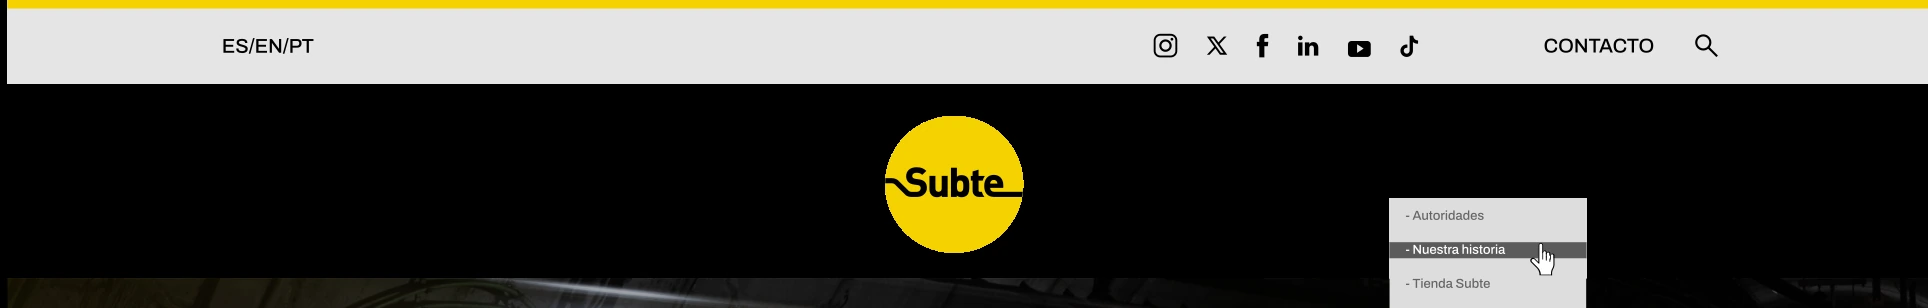
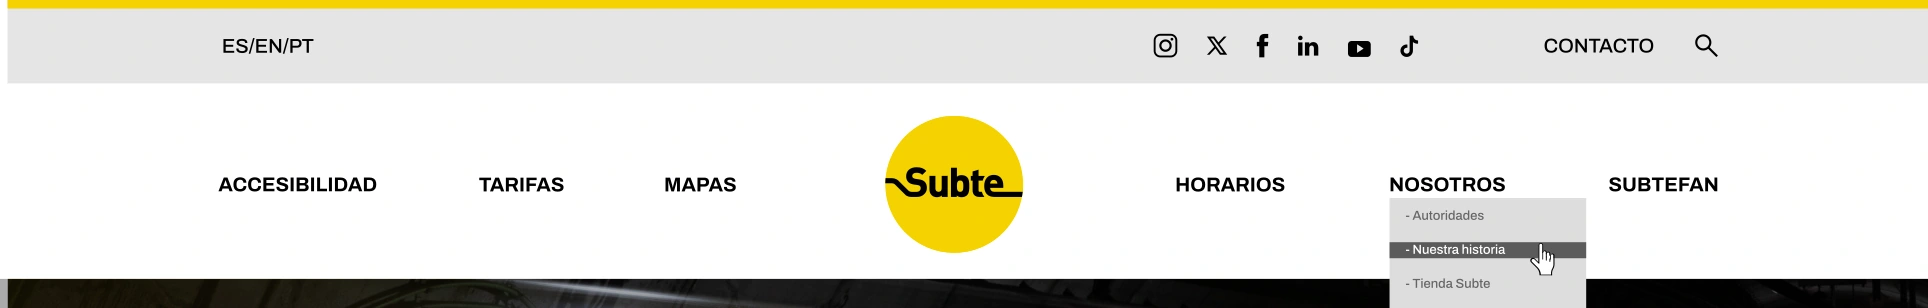
Add files via upload

diff --git a/index.html b/index.html
@@ -1,14 +1,10 @@
 <!doctype html><html lang="es"><head>
-<meta charset="utf-8">
-<meta http-equiv="Cache-Control" content="no-cache, no-store, must-revalidate">
-<meta http-equiv="Pragma" content="no-cache">
-<meta http-equiv="Expires" content="0"><meta name="viewport" content="width=device-width,initial-scale=1">
-<title>Subte — propuesta interactiva</title><link rel="stylesheet" href="styles_v29.css?v=29"></head><body>
+<meta charset="utf-8"><meta name="viewport" content="width=device-width,initial-scale=1">
+<title>Subte — propuesta interactiva</title><link rel="stylesheet" href="styles.css"></head><body>
 
 
 <div class="exact-header" id="top">
-  <div class="nosotros-cleanup" aria-hidden="true"></div>
-  <img src="header_v29.webp" alt="Encabezado del sitio">
+  <img src="header.webp" alt="Encabezado del sitio">
 
   <!-- Real navigation row: the words themselves are the links -->
   <div class="nav-row-mask"></div>
@@ -83,7 +79,7 @@
   </div>
 </section>
 
-<img src="mid_v29.webp" class="svgpart" alt="Estado del servicio y novedades">
+<img src="mid.webp" class="svgpart" alt="Estado del servicio y novedades">
 
 <section class="stations">
   <h2>ESTACIONES</h2>
@@ -149,7 +145,7 @@
 <span id="nosotros" class="section-anchor"></span>
 <div class="lower-wrap">
   <span class="lower-anchor lower-horarios" id="horarios"></span>
-  <img src="lower_v29.webp" class="svgpart" alt="Tarifas y horarios">
+  <img src="lower.webp" class="svgpart" alt="Tarifas y horarios">
 </div>
 <section class="nosotros-targets" aria-hidden="true">
   <span id="autoridades"></span><span id="historia"></span><span id="tienda"></span><span id="contacto"></span><span id="subtefan"></span>
@@ -197,5 +193,5 @@ document.getElementById('swap').onclick=()=>{ [origin.value,dest.value]=[dest.va
 
 
 </script>
-<script src="carousel_v29.js?v=29"></script>
+<script src="carousel.js"></script>
 </body></html>

diff --git a/styles.css b/styles.css
@@ -727,45 +727,13 @@ html{scroll-behavior:smooth}
   visibility:hidden !important;
 }
 
-/* === GitHub Pages white-background fix ===
-   Explicitly paint every non-photo section white so the published page
-   does not inherit dark/transparent areas between optimized artwork slices. */
-html,
-body,
-.exact-header,
-.stations,
-.stations-section,
-.map-section,
-.map-wrap,
-.lower-wrap,
-.line-card,
-.panel,
-.real-nav,
-.nosotros-targets {
-  background-color:#fff !important;
+/* FINAL GITHUB WHITE PATCH */
+html,body{background:#fff !important}
+.exact-header,.stations,.map-section,.map-wrap,.lower-wrap,.line-card,.panel,.real-nav{
+  background:#fff !important;
 }
-
-.svgpart,
-.exact-header > img,
-.lower-wrap > img {
-  display:block;
-  background-color:#fff;
+.svgpart,.exact-header>img,.lower-wrap>img{
+  display:block !important;
+  background:#fff !important;
 }
-
-/* Remove browser default gaps around images and section boundaries. */
 img{vertical-align:top}
-.exact-header,
-.stations,
-.stations-section,
-.map-section,
-.lower-wrap,
-.svgpart{
-  margin-top:0 !important;
-  margin-bottom:0 !important;
-}
-
-/* Keep the carousel itself dark only where an image actually fills it. */
-.hero-carousel,
-.hero-carousel .slide{
-  background-color:#111;
-}
